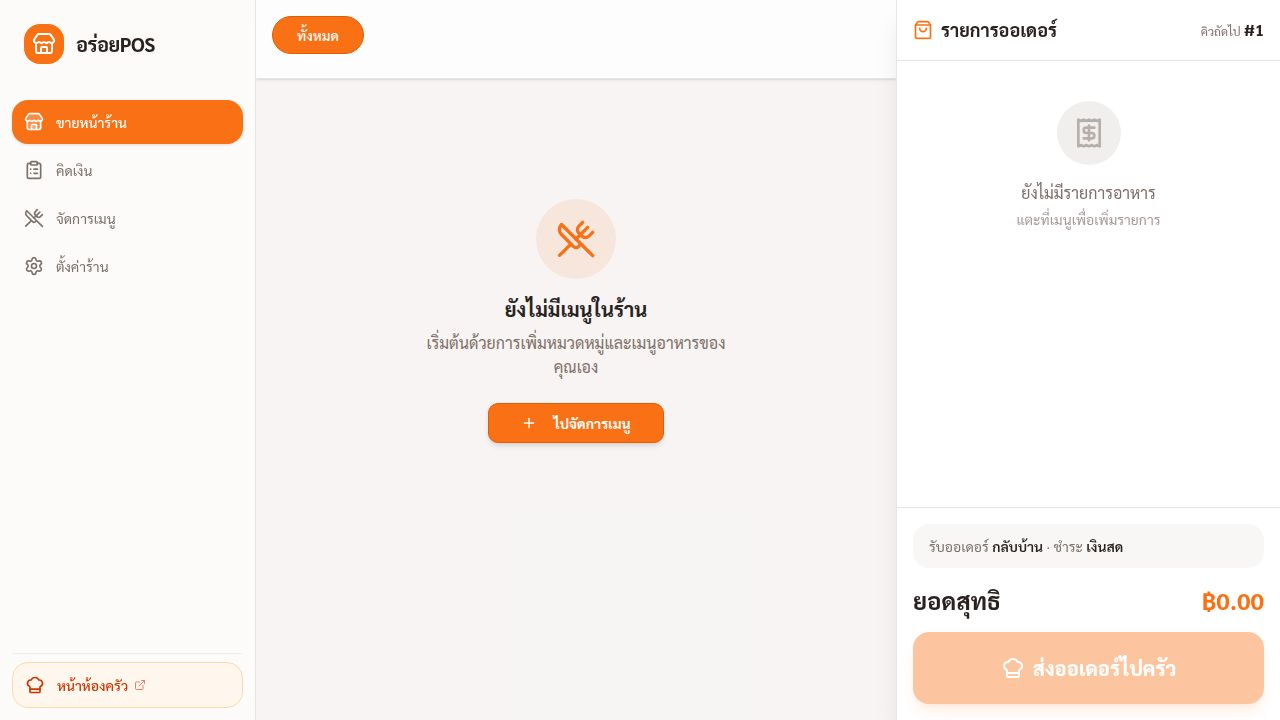
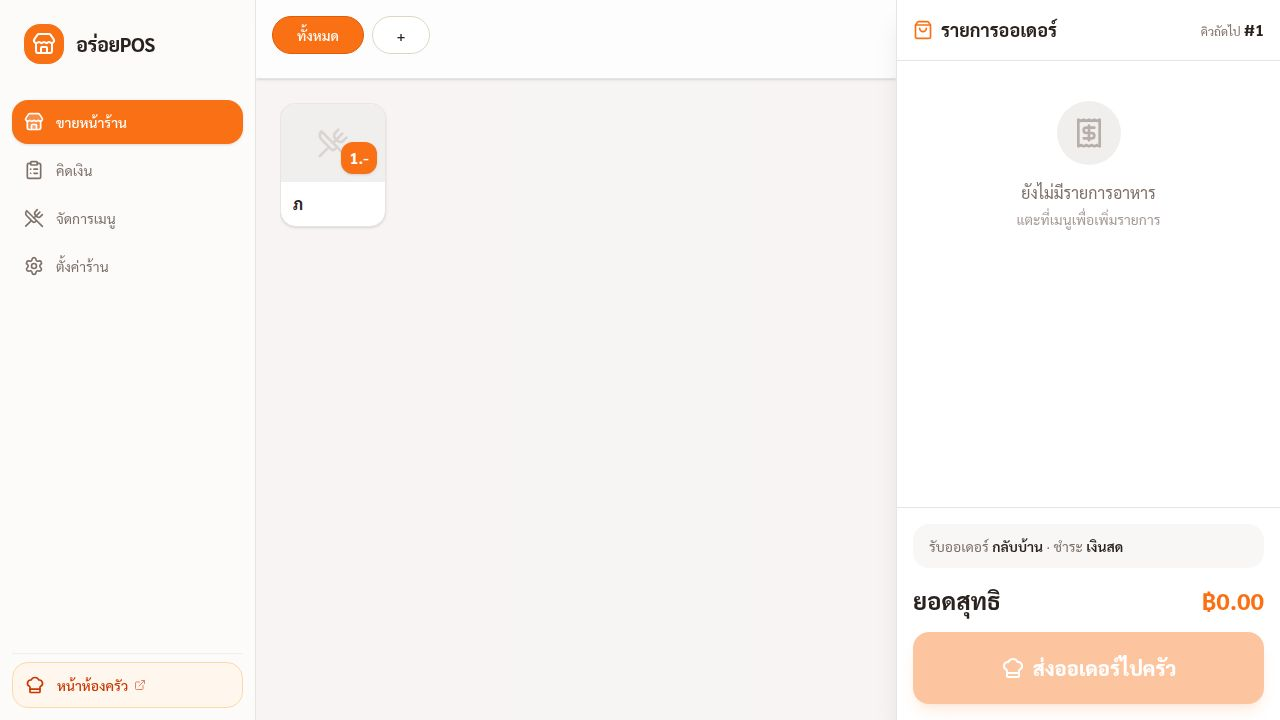
Update store name and add stock management for menu items
Update the application to dynamically display the store name from settings, introduce stock management for menu items including API and UI changes, and enhance order source tracking.

Replit-Commit-Author: Agent
Replit-Commit-Session-Id: 16eaa064-4f08-45ea-9caa-be1e22984312
Replit-Commit-Checkpoint-Type: full_checkpoint
Replit-Commit-Event-Id: 663c77a6-d018-480a-9547-49a4a196076b
Replit-Commit-Screenshot-Url: https://storage.googleapis.com/screenshot-production-us-central1/0e2c17a2-acb9-4574-a75c-cf43075218cb/16eaa064-4f08-45ea-9caa-be1e22984312/Ay84WVY
Replit-Helium-Checkpoint-Created: true

diff --git a/artifacts/pos-restaurant/src/pages/Menu.tsx b/artifacts/pos-restaurant/src/pages/Menu.tsx
@@ -23,6 +23,7 @@ export default function MenuAdmin() {
   const [categoryId, setCategoryId] = useState("");
   const [available, setAvailable] = useState(true);
   const [imageUrl, setImageUrl] = useState("");
+  const [stock, setStock] = useState<string>("");
 
   const [isCatDialogOpen, setIsCatDialogOpen] = useState(false);
   const [editingCat, setEditingCat] = useState<Category | null>(null);
@@ -35,6 +36,7 @@ export default function MenuAdmin() {
     setCategoryId(categories[0]?.id || "");
     setAvailable(true);
     setImageUrl("");
+    setStock("");
     setIsDialogOpen(true);
   };
 
@@ -45,6 +47,7 @@ export default function MenuAdmin() {
     setCategoryId(item.categoryId);
     setAvailable(item.available);
     setImageUrl(item.imageUrl || "");
+    setStock(item.stock != null ? String(item.stock) : "");
     setIsDialogOpen(true);
   };
 
@@ -54,13 +57,15 @@ export default function MenuAdmin() {
       return;
     }
 
+    const stockNum = stock.trim() !== "" ? Number(stock) : null;
     const payload: MenuItem = {
       id: editingItem ? editingItem.id : `menu-${Date.now()}`,
       name,
       price: Number(price),
       categoryId,
-      available,
-      imageUrl: imageUrl || undefined
+      available: stockNum !== null ? stockNum > 0 : available,
+      imageUrl: imageUrl || undefined,
+      stock: stockNum,
     };
 
     if (editingItem) {
@@ -255,9 +260,16 @@ export default function MenuAdmin() {
                           </div>
                           <div className="text-primary font-bold">{formatCurrency(item.price)}</div>
                           <div className="mt-auto flex justify-between items-center pt-2">
-                            <Badge variant={item.available ? "outline" : "destructive"} className="text-[10px] px-1.5 h-5">
-                              {item.available ? 'พร้อมขาย' : 'หมด'}
-                            </Badge>
+                            <div className="flex items-center gap-1.5">
+                              <Badge variant={item.available ? "outline" : "destructive"} className="text-[10px] px-1.5 h-5">
+                                {item.available ? 'พร้อมขาย' : 'หมด'}
+                              </Badge>
+                              {item.stock != null && (
+                                <Badge variant="secondary" className="text-[10px] px-1.5 h-5">
+                                  สต็อก {item.stock}
+                                </Badge>
+                              )}
+                            </div>
                             <div className="flex gap-1">
                               <Button variant="ghost" size="icon" className="h-8 w-8" onClick={() => openEdit(item)}>
                                 <Edit2 className="size-4" />
@@ -328,13 +340,27 @@ export default function MenuAdmin() {
               </div>
             </div>
 
-            <div className="flex items-center justify-between p-3 border rounded-xl mt-4">
-              <div className="space-y-0.5">
-                <Label>สถานะพร้อมขาย</Label>
-                <p className="text-xs text-muted-foreground">ปิดเมื่อวัตถุดิบหมด</p>
-              </div>
-              <Switch checked={available} onCheckedChange={setAvailable} />
+            <div className="space-y-2">
+              <Label>จำนวนสต็อก (ไม่บังคับ)</Label>
+              <Input
+                type="number"
+                min="0"
+                value={stock}
+                onChange={e => setStock(e.target.value)}
+                placeholder="ว่าง = ไม่จำกัด"
+              />
+              <p className="text-xs text-muted-foreground">ถ้าใส่จำนวน ระบบจะลดสต็อกอัตโนมัติเมื่อมีออเดอร์ และหมดแล้วขายไม่ได้</p>
             </div>
+
+            {stock.trim() === "" && (
+              <div className="flex items-center justify-between p-3 border rounded-xl">
+                <div className="space-y-0.5">
+                  <Label>สถานะพร้อมขาย</Label>
+                  <p className="text-xs text-muted-foreground">ปิดเมื่อวัตถุดิบหมด</p>
+                </div>
+                <Switch checked={available} onCheckedChange={setAvailable} />
+              </div>
+            )}
 
           </div>
           <DialogFooter>

diff --git a/artifacts/pos-restaurant/src/pages/Orders.tsx b/artifacts/pos-restaurant/src/pages/Orders.tsx
@@ -1,7 +1,7 @@
 import { useState, useRef, useMemo } from "react";
 import { format } from "date-fns";
 import { th } from "date-fns/locale";
-import { Search, Printer, Eye, ChefHat, CheckCircle2, Clock, Banknote, ExternalLink } from "lucide-react";
+import { Search, Printer, Eye, ChefHat, CheckCircle2, Clock, Banknote, ExternalLink, Smartphone, UserCog } from "lucide-react";
 import { useOrders, useSettings, Order, formatCurrency } from "@/lib/store";
 import { Button } from "@/components/ui/button";
 import { Input } from "@/components/ui/input";
@@ -186,7 +186,18 @@ export default function Orders() {
               return (
                 <div key={order.id} className="bg-card border rounded-2xl p-4 space-y-3 shadow-sm">
                   <div className="flex items-center justify-between">
-                    <span className="text-2xl font-black text-primary">#{order.queueNumber}</span>
+                    <div className="flex items-center gap-2">
+                      <span className="text-2xl font-black text-primary">#{order.queueNumber}</span>
+                      {order.source === "customer" ? (
+                        <span className="inline-flex items-center gap-1 text-[10px] font-semibold px-2 py-0.5 rounded-full bg-blue-100 text-blue-700 border border-blue-200">
+                          <Smartphone className="size-2.5" /> ลูกค้าสั่งเอง
+                        </span>
+                      ) : (
+                        <span className="inline-flex items-center gap-1 text-[10px] font-semibold px-2 py-0.5 rounded-full bg-orange-100 text-orange-700 border border-orange-200">
+                          <UserCog className="size-2.5" /> พนักงาน
+                        </span>
+                      )}
+                    </div>
                     <span className={cn("text-xs font-semibold px-2.5 py-1 rounded-full border", cfg.color)}>
                       {cfg.label}
                     </span>
@@ -249,7 +260,20 @@ export default function Orders() {
                     const cfg = STATUS_CONFIG[order.status as OrderStatus] ?? STATUS_CONFIG.paid;
                     return (
                       <tr key={order.id} className="hover:bg-muted/30 transition-colors">
-                        <td className="px-4 py-3 font-black text-primary text-xl">#{order.queueNumber}</td>
+                        <td className="px-4 py-3">
+                          <div className="flex items-center gap-2">
+                            <span className="font-black text-primary text-xl">#{order.queueNumber}</span>
+                            {order.source === "customer" ? (
+                              <span className="inline-flex items-center gap-1 text-[10px] font-semibold px-1.5 py-0.5 rounded-full bg-blue-100 text-blue-700 border border-blue-200">
+                                <Smartphone className="size-2.5" /> ลูกค้า
+                              </span>
+                            ) : (
+                              <span className="inline-flex items-center gap-1 text-[10px] font-semibold px-1.5 py-0.5 rounded-full bg-orange-100 text-orange-700 border border-orange-200">
+                                <UserCog className="size-2.5" /> พนักงาน
+                              </span>
+                            )}
+                          </div>
+                        </td>
                         <td className="px-4 py-3 text-muted-foreground">{format(new Date(order.createdAt), "dd MMM HH:mm", { locale: th })}</td>
                         <td className="px-4 py-3 max-w-xs">
                           <span className="line-clamp-2 text-sm">{order.items.map(i => `${i.name} x${i.qty}`).join(", ")}</span>

diff --git a/artifacts/api-server/src/routes/orders.ts b/artifacts/api-server/src/routes/orders.ts
@@ -1,6 +1,6 @@
 import { Router } from "express";
 import { eq, sql } from "drizzle-orm";
-import { db, ordersTable, settingsTable } from "@workspace/db";
+import { db, ordersTable, settingsTable, menuItemsTable } from "@workspace/db";
 import { broadcast } from "../lib/sse.js";
 
 const router = Router();
@@ -11,11 +11,26 @@ router.get("/orders", async (_req, res) => {
 });
 
 router.post("/orders", async (req, res) => {
-  const { id, queueNumber, items, total, status, tableNote } = req.body;
+  const { id, queueNumber, items, total, status, tableNote, source } = req.body;
   const [row] = await db.insert(ordersTable)
-    .values({ id, queueNumber, items, total, status: status ?? "pending", tableNote })
+    .values({ id, queueNumber, items, total, status: status ?? "pending", tableNote, source: source ?? "staff" })
     .returning();
   broadcast("orders:new", row);
+
+  // Decrement stock for each item ordered — if stock hits 0, mark unavailable
+  if (Array.isArray(items)) {
+    for (const item of items) {
+      const [menuItem] = await db.select().from(menuItemsTable).where(eq(menuItemsTable.id, item.menuItemId));
+      if (!menuItem || menuItem.stock === null || menuItem.stock === undefined) continue;
+      const newStock = Math.max(0, menuItem.stock - item.qty);
+      const [updated] = await db.update(menuItemsTable)
+        .set({ stock: newStock, available: newStock > 0 ? menuItem.available : false })
+        .where(eq(menuItemsTable.id, item.menuItemId))
+        .returning();
+      broadcast("menu:update", updated);
+    }
+  }
+
   // Notify queue counter watchers
   const today2 = new Date(); today2.setHours(0, 0, 0, 0);
   const allToday = await db.select().from(ordersTable)
@@ -42,7 +57,6 @@ router.put("/orders/:id", async (req, res) => {
 });
 
 router.get("/orders/today-count", async (_req, res) => {
-  // Use queueResetAt if set, otherwise start of today
   const resetRow = await db.select().from(settingsTable).where(eq(settingsTable.key, "queueResetAt"));
   const resetAt = resetRow[0]?.value ?? null;
   const today = new Date();

diff --git a/artifacts/api-server/src/routes/menu.ts b/artifacts/api-server/src/routes/menu.ts
@@ -11,18 +11,27 @@ router.get("/menu", async (_req, res) => {
 });
 
 router.post("/menu", async (req, res) => {
-  const { id, name, price, categoryId, description, imageUrl, available } = req.body;
+  const { id, name, price, categoryId, description, imageUrl, available, stock } = req.body;
   const [row] = await db.insert(menuItemsTable)
-    .values({ id, name, price, categoryId, description, imageUrl, available: available ?? true })
+    .values({ id, name, price, categoryId, description, imageUrl, available: available ?? true, stock: stock ?? null })
     .returning();
   broadcast("menu:update", row);
   res.json(row);
 });
 
 router.put("/menu/:id", async (req, res) => {
-  const { name, price, categoryId, description, imageUrl, available } = req.body;
+  const { name, price, categoryId, description, imageUrl, available, stock } = req.body;
+  const updateData: Record<string, unknown> = {};
+  if (name !== undefined) updateData.name = name;
+  if (price !== undefined) updateData.price = price;
+  if (categoryId !== undefined) updateData.categoryId = categoryId;
+  if (description !== undefined) updateData.description = description;
+  if (imageUrl !== undefined) updateData.imageUrl = imageUrl;
+  if (available !== undefined) updateData.available = available;
+  if (stock !== undefined) updateData.stock = stock === null ? null : Number(stock);
+
   const [row] = await db.update(menuItemsTable)
-    .set({ name, price, categoryId, description, imageUrl, available })
+    .set(updateData)
     .where(eq(menuItemsTable.id, req.params.id))
     .returning();
   broadcast("menu:update", row);

diff --git a/artifacts/pos-restaurant/src/components/Layout.tsx b/artifacts/pos-restaurant/src/components/Layout.tsx
@@ -8,6 +8,7 @@ import {
   ExternalLink,
 } from "lucide-react";
 import { cn } from "@/lib/utils";
+import { useSettings } from "@/lib/store";
 
 const navItems = [
   { href: "/",         icon: Store,          label: "ขาย",    fullLabel: "ขายหน้าร้าน" },
@@ -25,7 +26,9 @@ const pageTitle: Record<string, string> = {
 
 export function Layout({ children }: { children: React.ReactNode }) {
   const [location] = useLocation();
-  const currentTitle = pageTitle[location] ?? "อร่อยPOS";
+  const { settings } = useSettings();
+  const shopName = settings.name || "ร้านหม่าล่าทอด";
+  const currentTitle = pageTitle[location] ?? shopName;
 
   return (
     <div className="flex h-[100dvh] w-full overflow-hidden bg-muted/30">
@@ -36,7 +39,7 @@ export function Layout({ children }: { children: React.ReactNode }) {
           <div className="bg-primary text-primary-foreground p-2 rounded-xl shrink-0">
             <Store className="size-6" />
           </div>
-          <span className="font-bold text-xl hidden lg:block tracking-tight">อร่อยPOS</span>
+          <span className="font-bold text-xl hidden lg:block tracking-tight">{shopName}</span>
         </div>
 
         <nav className="flex-1 flex flex-col gap-1 p-3">
@@ -80,7 +83,7 @@ export function Layout({ children }: { children: React.ReactNode }) {
           <Store className="size-4" />
         </div>
         <div className="flex-1 min-w-0">
-          <p className="text-xs text-muted-foreground leading-none mb-0.5">อร่อยPOS</p>
+          <p className="text-xs text-muted-foreground leading-none mb-0.5">{shopName}</p>
           <p className="font-bold text-sm leading-none truncate">{currentTitle}</p>
         </div>
         <a

diff --git a/artifacts/api-server/src/routes/settings.ts b/artifacts/api-server/src/routes/settings.ts
@@ -5,7 +5,7 @@ import { broadcast } from "../lib/sse.js";
 const router = Router();
 
 const DEFAULT_SETTINGS = {
-  name: "ร้านของฉัน",
+  name: "ร้านหม่าล่าทอด",
   footerMessage: "ขอบคุณที่ใช้บริการ",
   logoDataUrl: "",
 };

diff --git a/artifacts/pos-restaurant/index.html b/artifacts/pos-restaurant/index.html
@@ -3,7 +3,7 @@
   <head>
     <meta charset="UTF-8" />
     <meta name="viewport" content="width=device-width, initial-scale=1.0, maximum-scale=1" />
-    <title>ร้านอาหาร POS</title>
+    <title>ร้านหม่าล่าทอด</title>
     <link rel="icon" type="image/svg+xml" href="/favicon.svg" />
     <link rel="preconnect" href="https://fonts.googleapis.com">
     <link rel="preconnect" href="https://fonts.gstatic.com" crossorigin>

diff --git a/artifacts/pos-restaurant/src/lib/api.ts b/artifacts/pos-restaurant/src/lib/api.ts
@@ -14,6 +14,7 @@ export type MenuItem = {
   description?: string | null;
   imageUrl?: string | null;
   available: boolean;
+  stock?: number | null;
 };
 
 export type CartItem = {
@@ -34,6 +35,7 @@ export type Order = {
   total: number;
   status: OrderStatus;
   tableNote?: string | null;
+  source?: string | null;
 };
 
 export type ShopSettings = {

diff --git a/lib/db/src/schema/index.ts b/lib/db/src/schema/index.ts
@@ -22,6 +22,7 @@ export const menuItemsTable = pgTable("menu_items", {
   description: text("description"),
   imageUrl: text("image_url"),
   available: boolean("available").notNull().default(true),
+  stock: integer("stock"),
 });
 
 export const ordersTable = pgTable("orders", {
@@ -32,6 +33,7 @@ export const ordersTable = pgTable("orders", {
   total: real("total").notNull(),
   status: text("status").notNull().default("pending"),
   tableNote: text("table_note"),
+  source: text("source").notNull().default("staff"),
 });
 
 export const settingsTable = pgTable("settings", {

diff --git a/artifacts/pos-restaurant/src/pages/CustomerOrder.tsx b/artifacts/pos-restaurant/src/pages/CustomerOrder.tsx
@@ -80,6 +80,7 @@ export default function CustomerOrder() {
         items: [...cart],
         total,
         status: "pending",
+        source: "customer",
         tableNote: tableNote.trim() || undefined,
       });
       setQueueNum(queueNumber);

diff --git a/artifacts/pos-restaurant/src/pages/Home.tsx b/artifacts/pos-restaurant/src/pages/Home.tsx
@@ -185,6 +185,7 @@ export default function Home() {
       items: [...cart],
       total,
       status: "pending",
+      source: "staff",
     });
     setCart([]);
     setIsMobileCartOpen(false);